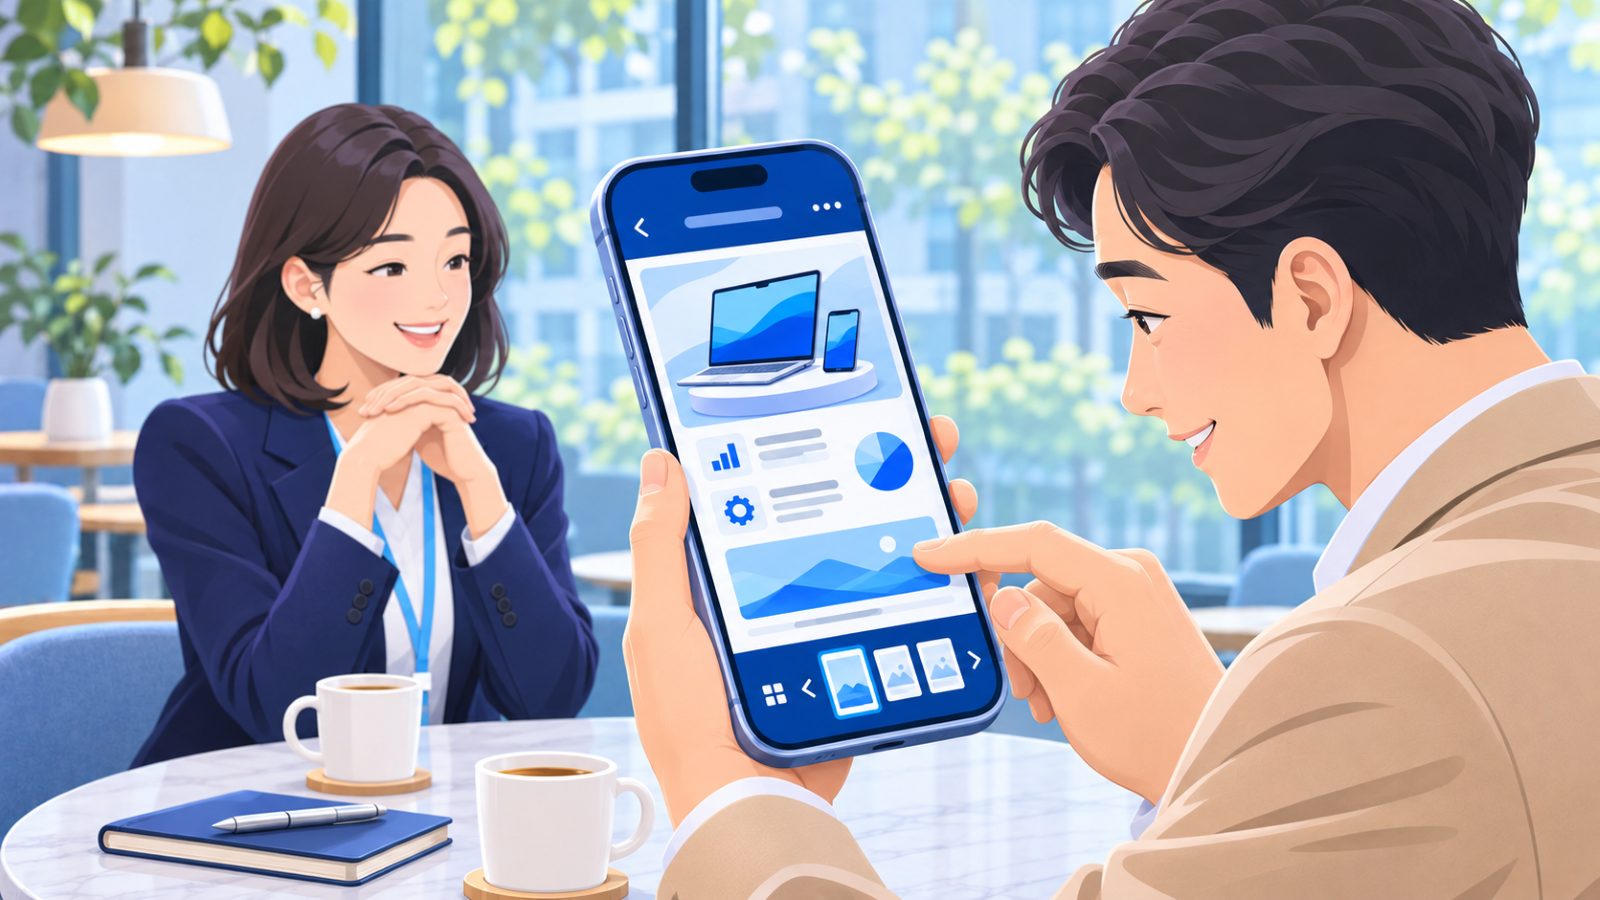
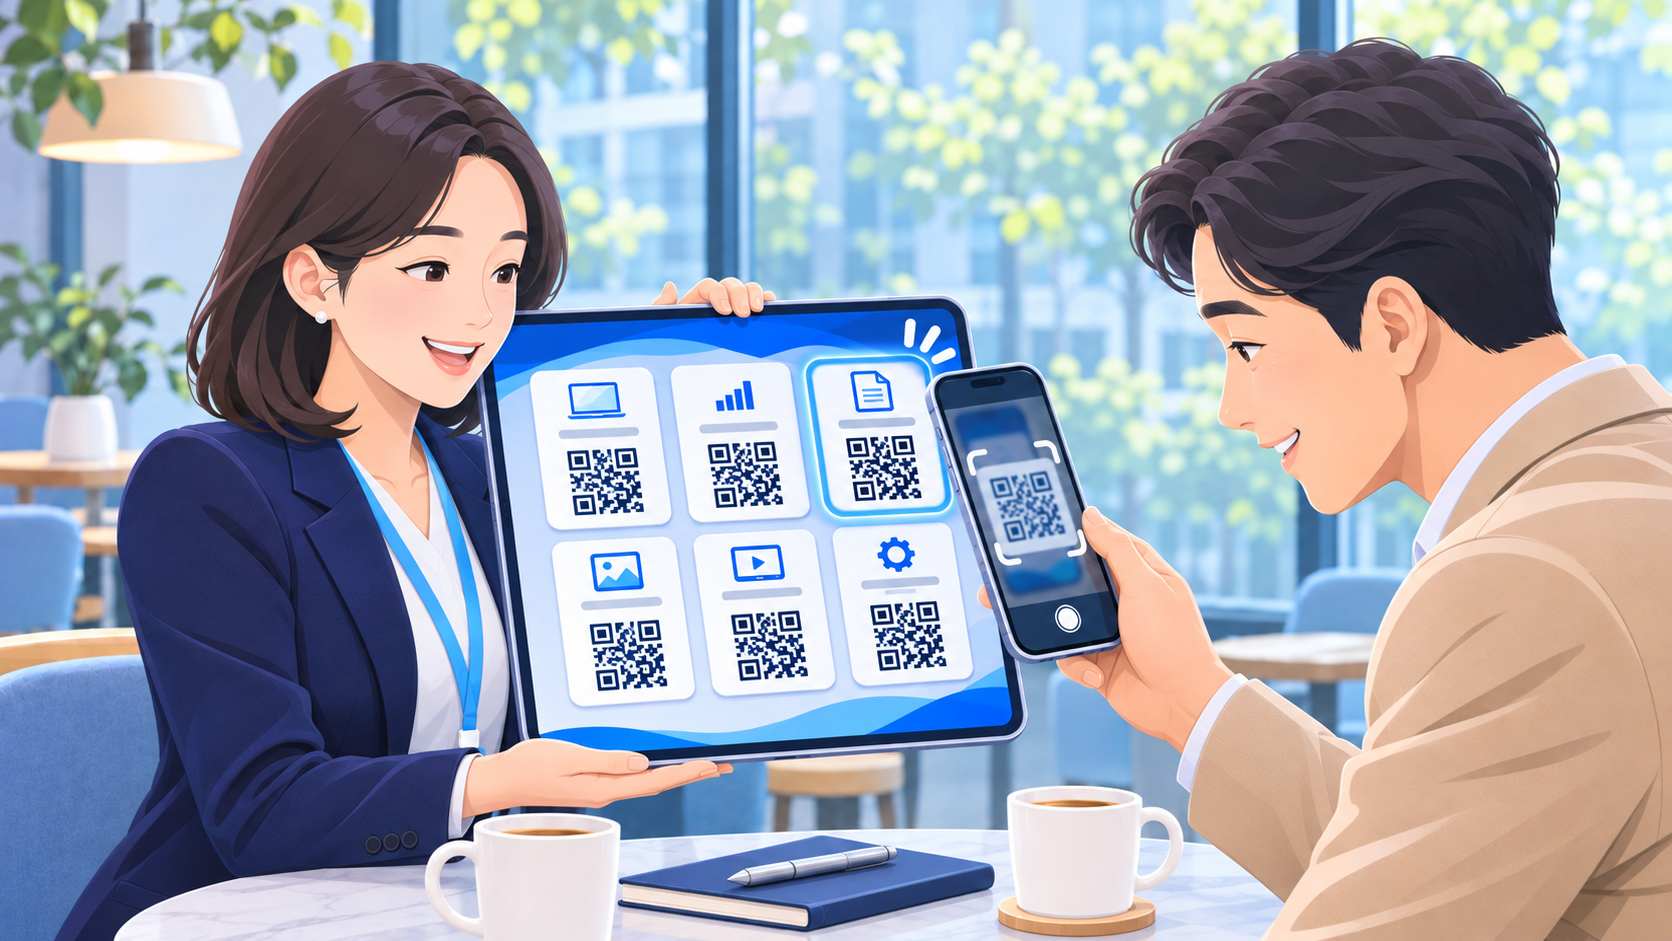
활용가이드에 묶음 QR 사용 단계 추가

diff --git a/index.html b/index.html
@@ -624,7 +624,7 @@
 
             <div class="usage-guide-content">
               <div class="usage-guide-step-row">
-                <span id="usageGuideStep" class="usage-guide-step">STEP 01 / 05</span>
+                <span id="usageGuideStep" class="usage-guide-step">STEP 01 / 06</span>
                 <div id="usageGuideProgress" class="usage-guide-progress" role="group" aria-label="가이드 단계 선택"></div>
               </div>
               <h3 id="usageGuideStepTitle">분산된 자료, NICE HUB에서 한 번에!</h3>
@@ -660,7 +660,7 @@
 
         <footer class="usage-guide-footer">
           <button id="usageGuidePrevious" class="button button-secondary" type="button">이전</button>
-          <span id="usageGuideCounter" class="usage-guide-counter" aria-hidden="true">1 / 5</span>
+          <span id="usageGuideCounter" class="usage-guide-counter" aria-hidden="true">1 / 6</span>
           <button id="usageGuideNext" class="button button-primary" type="button">다음</button>
         </footer>
       </section>

diff --git a/assets/js/usage-guide.js b/assets/js/usage-guide.js
@@ -32,6 +32,13 @@
     },
     {
       image: "assets/images/guide/nice-hub-guide-step-05.png",
+      alt: "영업자가 여러 자료의 QR 모음판을 고객에게 보여주고 고객이 원하는 자료의 QR 코드를 스마트폰으로 스캔하는 모습",
+      title: "묶음 QR로 원하는 자료를 한눈에!",
+      description:
+        "영업자가 필요한 자료의 QR을 한 화면에 모아 고객에게 보여주면, 고객은 원하는 자료를 직접 골라 QR코드를 스캔하고 바로 확인할 수 있습니다.",
+    },
+    {
+      image: "assets/images/guide/nice-hub-guide-step-06.png",
       alt: "고객이 자신의 스마트폰에서 공유받은 제품소개 자료를 직접 확인하는 모습",
       title: "고객도 본인 스마트폰으로 편리하게!",
       description:

diff --git a/sw.js b/sw.js
@@ -1,6 +1,6 @@
 "use strict";
 
-const CACHE_NAME = "nice-hub-shell-v80";
+const CACHE_NAME = "nice-hub-shell-v81";
 const APP_SHELL = [
   "./",
   "./index.html",
